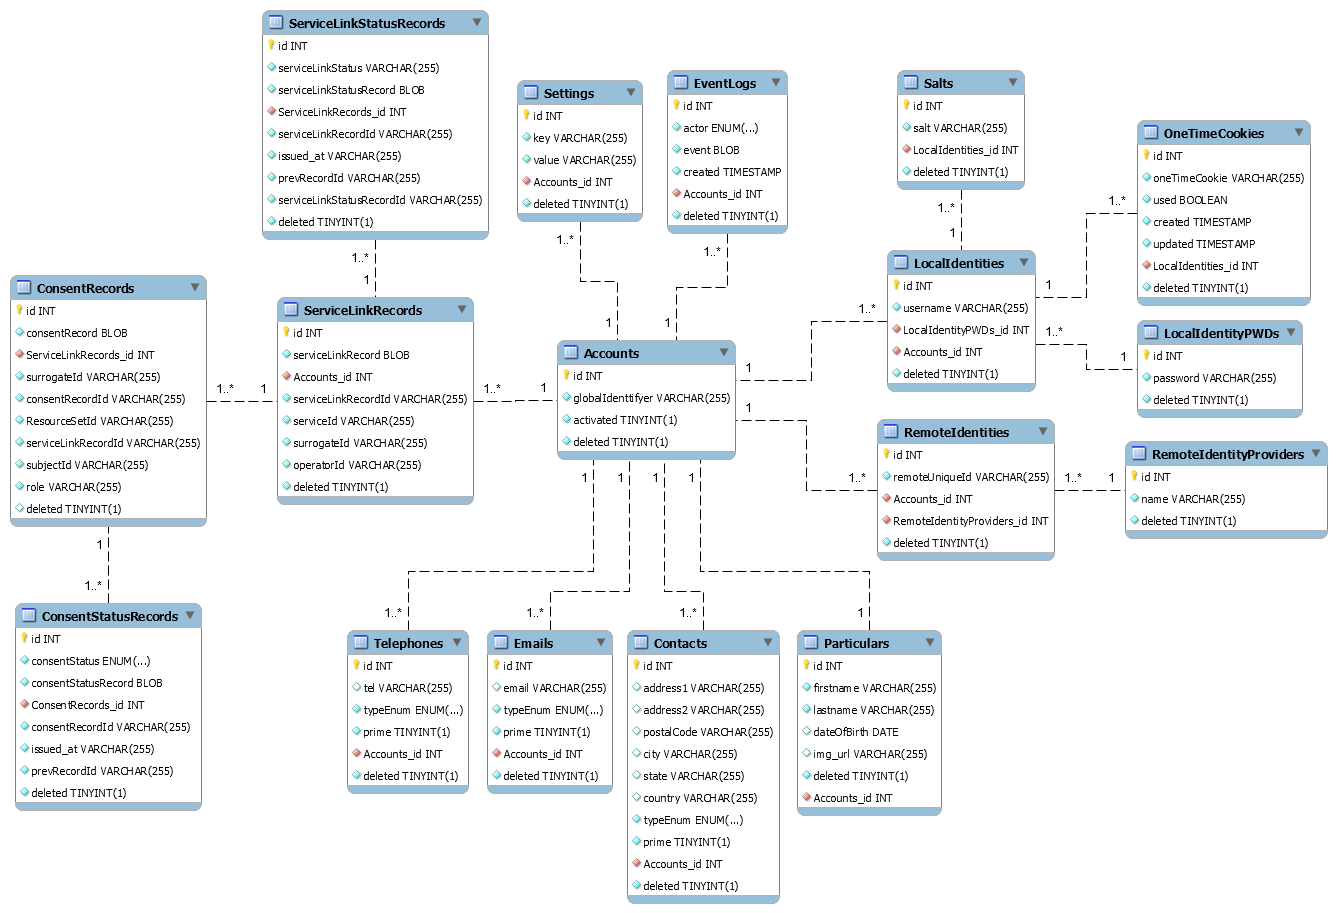
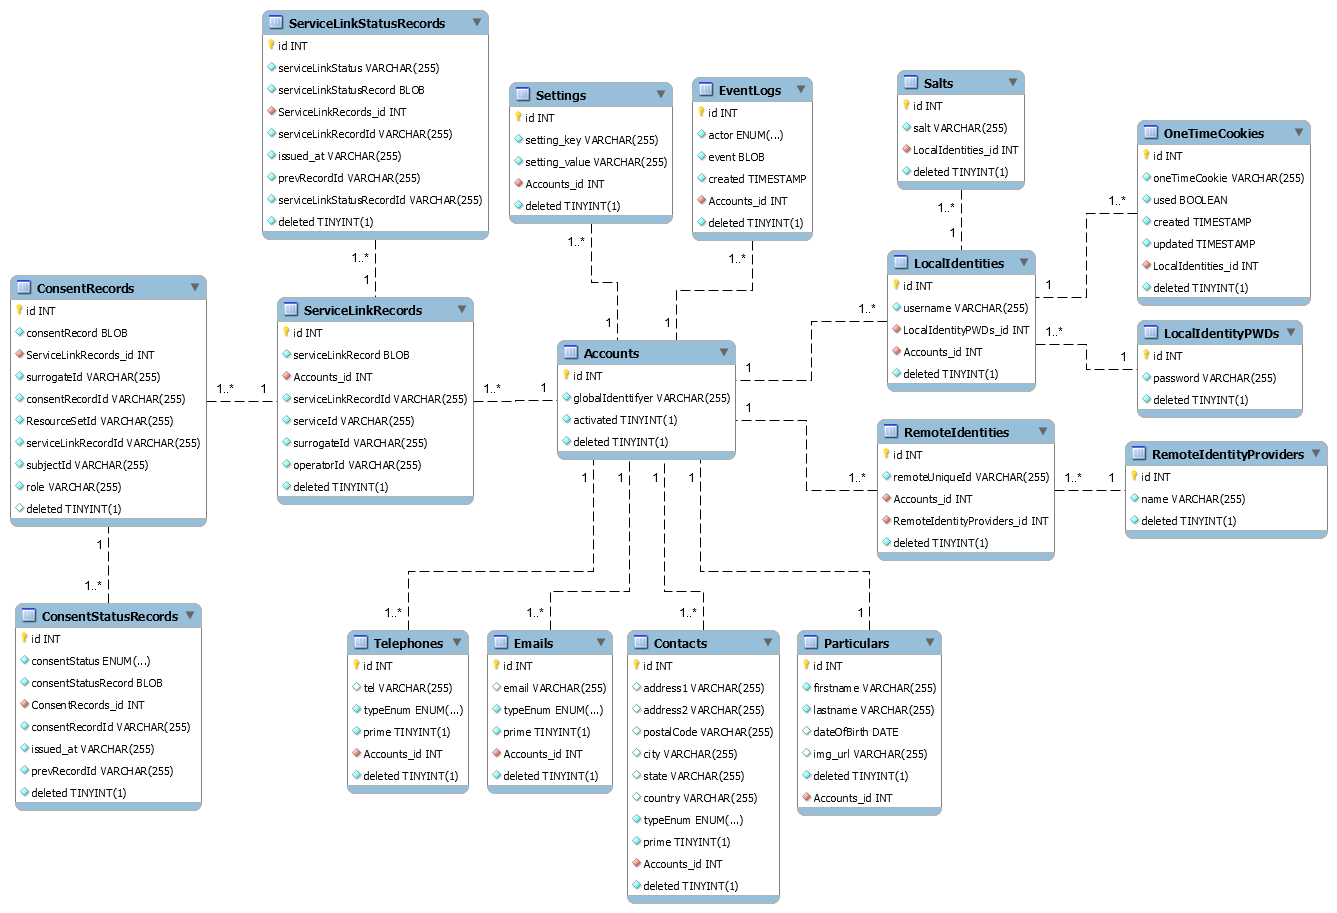
DB update for /api/accounts/<string:account_id>/settings/*

Changed region(s): [[0.368, 0.0613, 0.6133, 0.276]]

diff --git a/Account/app/mod_database/models.py b/Account/app/mod_database/models.py
@@ -1372,7 +1372,7 @@ class Settings():
 
     def to_db(self, cursor=""):
 
-        sql_query = "INSERT INTO " + self.table_name + " (key, value, Accounts_id) " \
+        sql_query = "INSERT INTO " + self.table_name + " (setting_key, setting_value, Accounts_id) " \
                     "VALUES (%s, %s, %s)"
 
         arguments = (
@@ -1394,14 +1394,12 @@ class Settings():
         if cursor is None:
             raise AttributeError("Provide cursor as parameter")
 
-        sql_query = "SELECT id, key, value, Accounts_id " \
+        sql_query = "SELECT id, setting_key, setting_value, Accounts_id " \
                     "FROM " + self.table_name + " " \
-                    "WHERE id LIKE %s AND key LIKE %s AND value LIKE %s AND Accounts_id LIKE %s;"
+                    "WHERE id LIKE %s AND Accounts_id LIKE %s;"
 
         arguments = (
             '%' + str(self.id) + '%',
-            '%' + str(self.key) + '%',
-            '%' + str(self.value) + '%',
             '%' + str(self.account_id) + '%',
         )
 
@@ -1425,6 +1423,27 @@ class Settings():
                 self.value = data[2]
                 self.account_id = data[3]
 
+            return cursor
+
+    def update_db(self, cursor=""):
+
+        sql_query = "UPDATE " + self.table_name + " SET setting_key=%s, setting_value=%s " \
+                                                  "WHERE id=%s AND Accounts_id=%s"
+
+        arguments = (
+            str(self.key),
+            str(self.value),
+            str(self.id),
+            str(self.account_id),
+        )
+
+        try:
+            cursor = execute_sql_update(cursor=cursor, sql_query=sql_query, arguments=arguments)
+        except Exception as exp:
+            logger.debug('sql_query: ' + repr(exp))
+            raise
+        else:
+            logger.info("SQL query executed")
             return cursor
 
 
